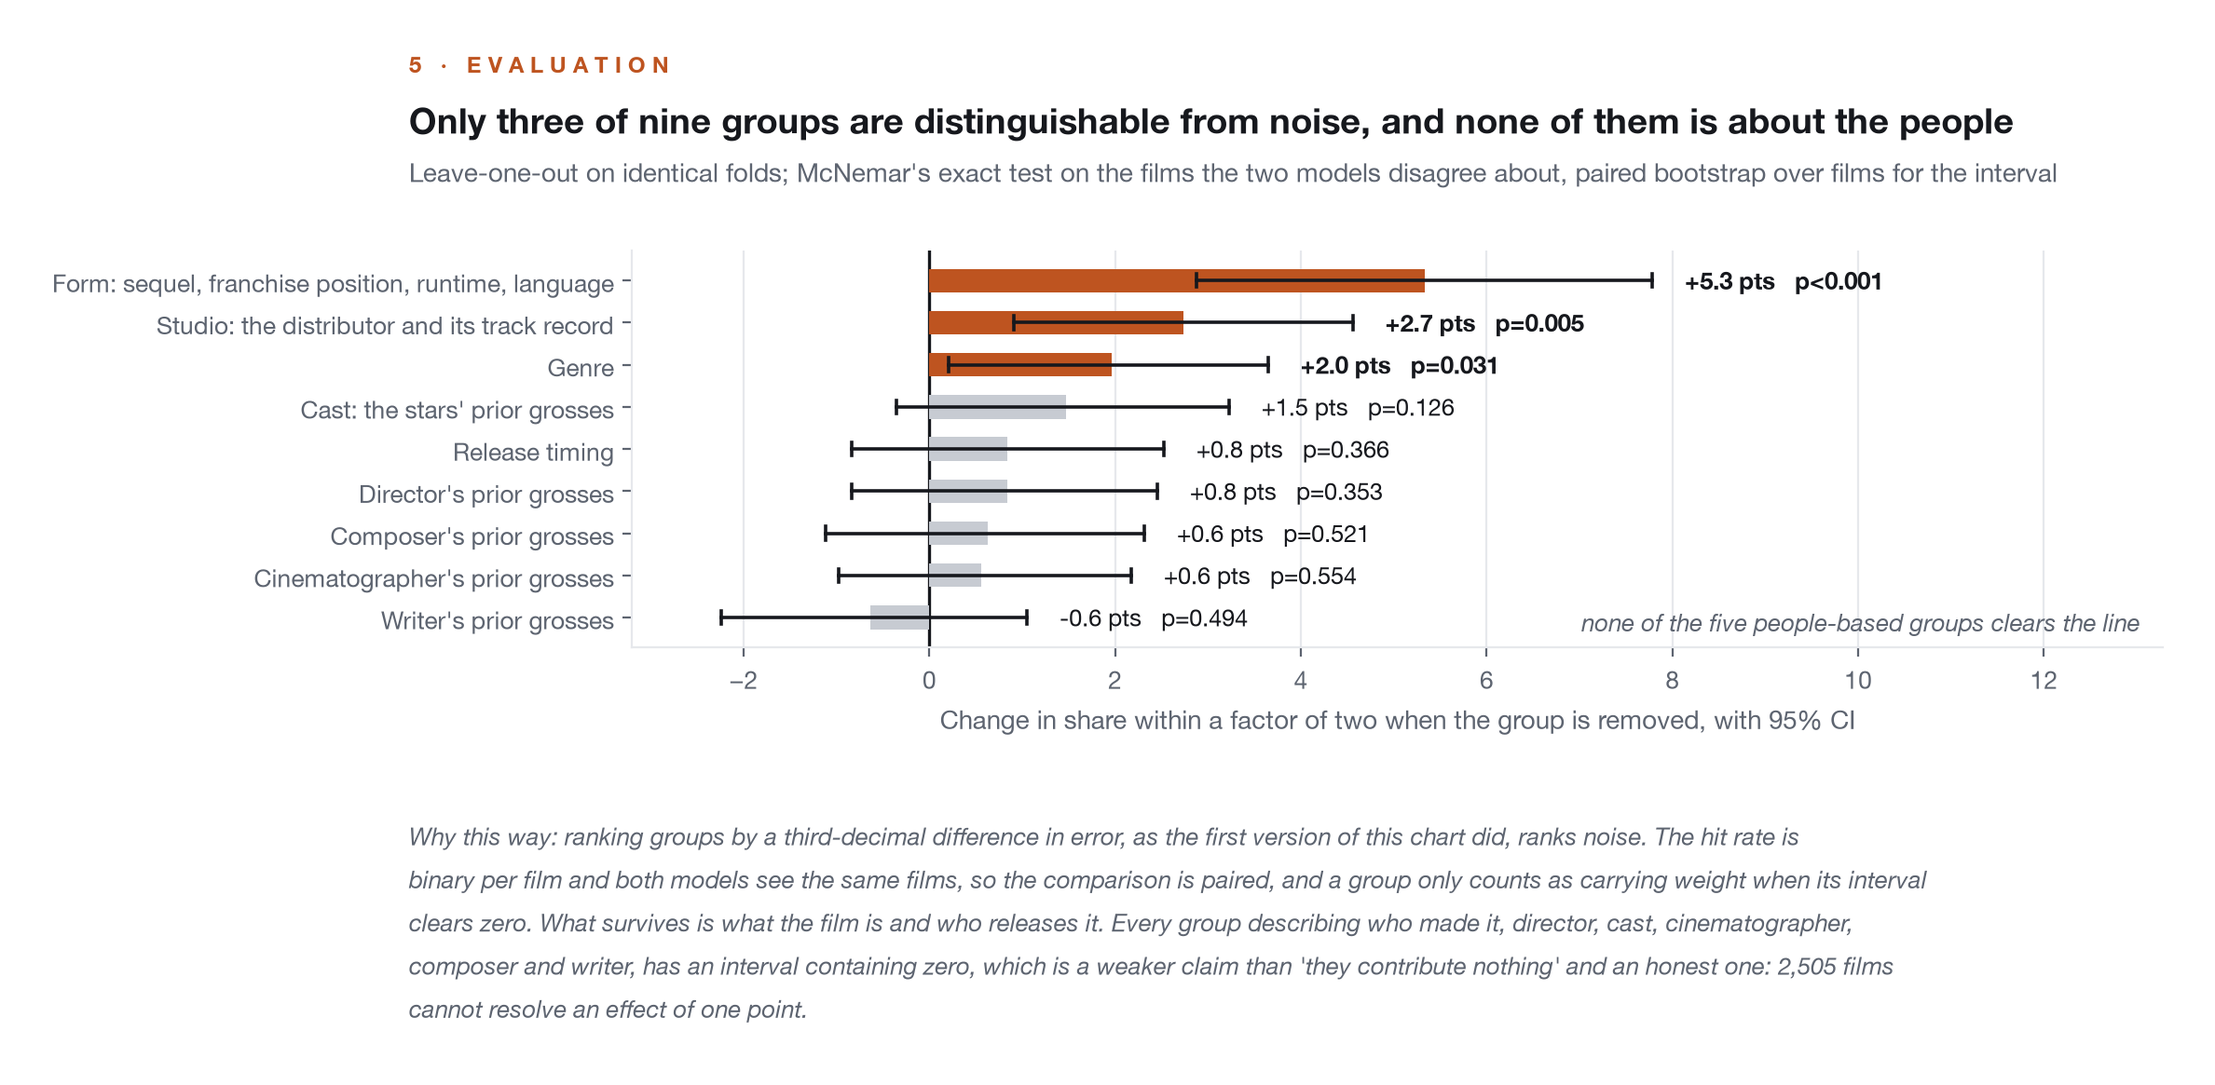
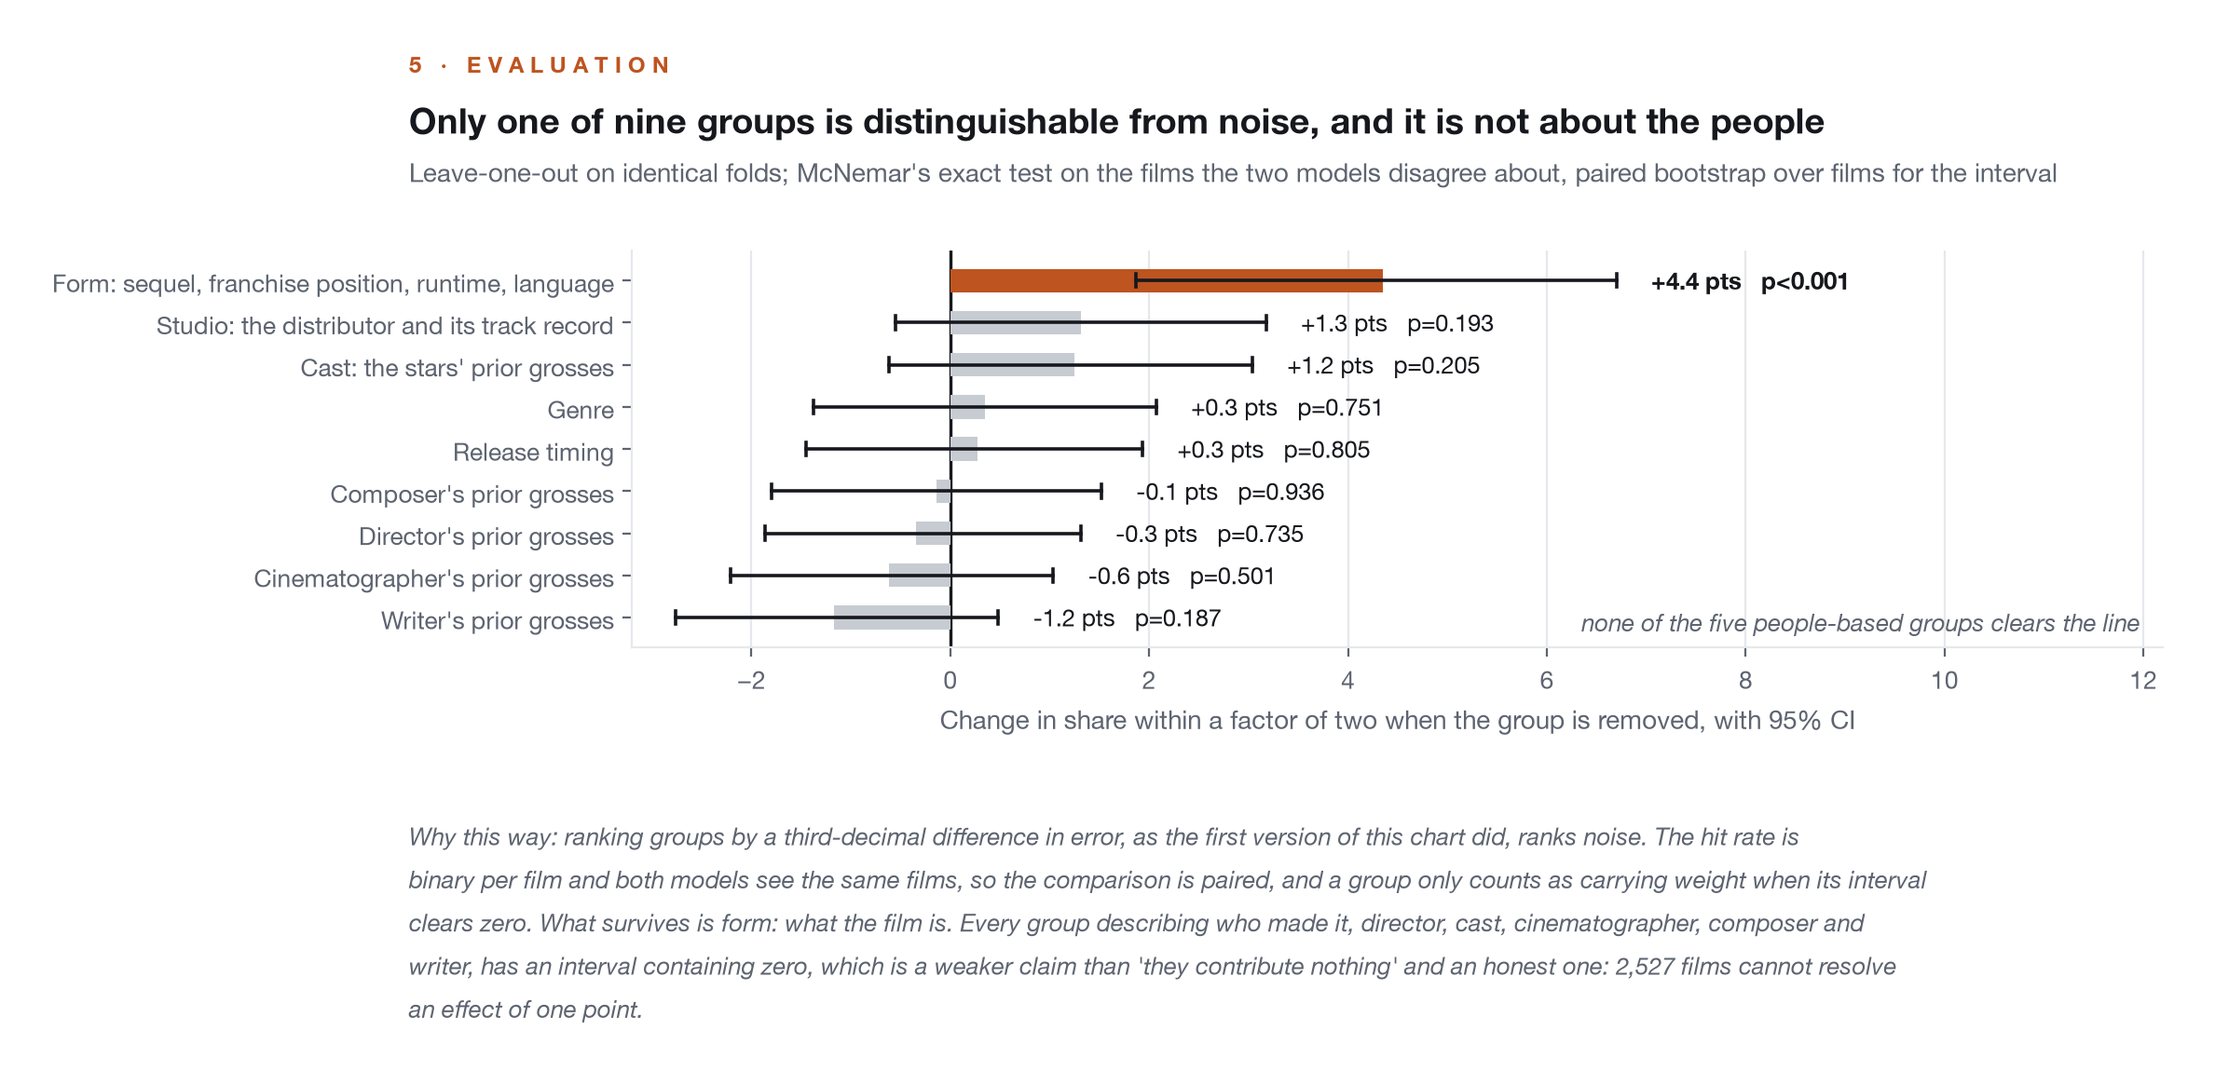
Box Office Before Release follows the sample to 2,527 films
Closing a gap in the sampling frame added 22 films and moved a finding. The
page stops claiming that the distributor predicts revenue, says in its own
words that the claim was significant on 2,505 films and not on 2,527, and
adds the decision that records why. Every figure and every number on the
page is regenerated from the new artifacts, including the signals chart
whose headline now says one group survives rather than three.

diff --git a/project-box-office.html b/project-box-office.html
@@ -56,9 +56,9 @@
 
       <h1 class="reveal">Box Office Before Release</h1>
 
-      <p class="dek reveal">Can you tell which films will not pay before they open, from nothing that is not public on the day the trailer drops? <strong>Yes, within every budget tier, and the thing that predicts it is not who made the film.</strong> Five separate groups describing the director, cast, cinematographer, composer and writer all sit inside noise. Which company releases it does not.</p>
+      <p class="dek reveal">Can you tell which films will not pay before they open, from nothing that is not public on the day the trailer drops? <strong>Yes, within every budget tier, and the thing that predicts it is not who made the film.</strong> Five separate groups describing the director, cast, cinematographer, composer and writer all sit inside noise. So, it turned out, does the distributor: significant on 2,505 films, and not on 2,527.</p>
 
-      <div class="summary-strip reveal" aria-label="Study summary"><div><span class="k">Question</span><span class="v">Which films will fail to return their budget, and can you tell before release?</span></div><div><span class="k">Data</span><span class="v"><strong>2,505 studio releases, 2000 to 2026</strong>, from 42 distributors, with the worldwide gross corrected against an independent source</span></div><div><span class="k">Method</span><span class="v">Every feature answerable as of release day; 17 rolling-origin folds; a booster calibrated in-fold, scored against each budget tier's own base rate</span></div><div><span class="k">Result</span><span class="v"><strong>Beats the budget-tier prior in every tier</strong>, with every interval clear of zero; ranks the sub-$15m films from 67% profitable to 22%</span></div></div>
+      <div class="summary-strip reveal" aria-label="Study summary"><div><span class="k">Question</span><span class="v">Which films will fail to return their budget, and can you tell before release?</span></div><div><span class="k">Data</span><span class="v"><strong>2,527 studio releases, 2000 to 2026</strong>, from 44 distributors, with the worldwide gross corrected against an independent source</span></div><div><span class="k">Method</span><span class="v">Every feature answerable as of release day; 17 rolling-origin folds; a booster calibrated in-fold, scored against each budget tier's own base rate</span></div><div><span class="k">Result</span><span class="v"><strong>Beats the budget-tier prior in every tier</strong>, with every interval clear of zero; ranks the sub-$15m films from 67% profitable to 24%</span></div></div>
 
       <div class="case-block reveal toc-watch" id="overview">
         <span class="sublabel">Overview</span>
@@ -68,12 +68,12 @@
       <div class="qa reveal toc-watch" id="question">
         <span class="sublabel">The question</span>
         <p class="q">Does who makes a film predict what it earns?</p>
-        <p class="a"><strong>Not measurably, and that was tested seven ways rather than assumed.</strong> Director, cast, cinematographer, composer and writer were each encoded as a track record as of release day, and each was removed from the working model on identical folds with a paired test on the films the two versions disagreed about. Every interval contains zero. Then the obvious objections were built and tested too: Academy pedigree, the marketing synopsis, career length and gaps, and a version with every person's full filmography pulled in from outside the sample. All of them lost. What survives is what the film is, a sequel at this budget from this distributor, and that is enough to rank the riskiest tier of films three to one.</p>
+        <p class="a"><strong>Not measurably, and that was tested five ways and then four more rather than assumed.</strong> Director, cast, cinematographer, composer and writer were each encoded as a track record as of release day, and each was removed from the working model on identical folds with a paired test on the films the two versions disagreed about. Every interval contains zero. Then the obvious objections were built and tested too: Academy pedigree, the marketing synopsis, career length and gaps, and a version with every person's full filmography pulled in from outside the sample. All of them lost. What survives is what the film <em>is</em>: a sequel, at this length, in this position in its franchise. Form is the one group besides budget that clears the line, and it is enough to rank the riskiest tier of films nearly three to one.</p>
       </div>
 
       <div class="case-block reveal toc-watch" id="why">
         <span class="sublabel">Why it matters</span>
-        <p>A regression on box office rediscovers budget. This one did: budget alone lands 47% of forecasts within a factor of two, and thirty-seven more features add ten points. The lift is real, but the model was weakest exactly where a studio needs a warning, projecting nine times actual in the bottom decile. So the target changed. The outcome space was clustered without any pre-release variable in it, three stable kinds fell out, and the classifier predicts which kind a film becomes, scored against the base rate inside its own budget tier. Predicting that a $200m tentpole turns a profit is worth nothing when 81% of them do. Predicting which of the sub-$15m films is the 37% that works is the whole job.</p>
+        <p>A regression on box office rediscovers budget. This one did: budget alone lands 47% of forecasts within a factor of two, and thirty-seven more features add nine points. The lift is real, but the model was weakest exactly where a studio needs a warning, projecting ten times actual in the bottom decile. So the target changed. The outcome space was clustered without any pre-release variable in it, three stable kinds fell out, and the classifier predicts which kind a film becomes, scored against the base rate inside its own budget tier. Predicting that a $200m tentpole turns a profit is worth nothing when 81% of them do. Predicting which of the sub-$15m films is the 37% that works is the whole job.</p>
       </div>
 
       <div class="case-block reveal toc-watch" id="crisp">
@@ -87,16 +87,16 @@
           <figcaption>TMDB calls 37,486 films theatrical in 2019 alone. Sorting by revenue, votes or popularity all select on the outcome; a distributor is attached months before opening, so it defines the frame.</figcaption>
         </figure>
         <figure>
-          <div class="fig-panel"><img src="assets/boxoffice-2-baselines.png" alt="Three bars: predicting the median film lands 31.6% within a factor of two, budget alone 46.9%, all 38 pre-release features 57.0%." width="1816" height="1008" loading="lazy"></div>
-          <figcaption>Budget alone lands 46.9% of forecasts within a factor of two. All 38 pre-release features reach 57.0% and clear budget in every one of the 17 folds.</figcaption>
+          <div class="fig-panel"><img src="assets/boxoffice-2-baselines.png" alt="Three bars: predicting the median film lands 32.1% within a factor of two, budget alone 47.1%, all 38 pre-release features 56.0%." width="1816" height="1008" loading="lazy"></div>
+          <figcaption>Budget alone lands 47.1% of forecasts within a factor of two. All 38 pre-release features reach 56.0% and clear budget in every one of the 17 folds.</figcaption>
         </figure>
         <figure>
           <div class="fig-panel"><img src="assets/boxoffice-3-ablation-design.png" alt="Two panels of horizontal bars for nine feature groups: added to a budget-only model almost all raise error; removed from the full model, form and studio cost the most." width="2207" height="1048" loading="lazy"></div>
           <figcaption>Added to budget one at a time, almost every group hurts; removed from the full model, form and studio carry the weight. The disagreement is the finding: these features only mean anything in combination.</figcaption>
         </figure>
         <figure>
-          <div class="fig-panel"><img src="assets/boxoffice-4-what-signals-buy.png" alt="Nine feature groups as horizontal bars with 95% confidence whiskers; form, studio and genre are highlighted as clearing zero, the five people-based groups are grey with intervals crossing zero." width="2377" height="1165" loading="lazy"></div>
-          <figcaption>Three of nine groups clear the line: form, studio and genre. All five describing who made the film, director, cast, cinematographer, composer and writer, have intervals containing zero.</figcaption>
+          <div class="fig-panel"><img src="assets/boxoffice-4-what-signals-buy.png" alt="Nine feature groups as horizontal bars with 95% confidence whiskers; only form is highlighted as clearing zero, the other eight including the distributor and all five people-based groups are grey with intervals crossing zero." width="2377" height="1165" loading="lazy"></div>
+          <figcaption>One of nine groups clears the line: form. The other eight, the distributor and all five describing who made the film among them, have intervals containing zero.</figcaption>
         </figure>
         <figure>
           <div class="fig-panel"><img src="assets/boxoffice-5-reliability.png" alt="Reliability diagram: the calibrated model's predicted probability of profit against the share that were profitable tracks the diagonal, the budget-tier prior sits below it." width="1267" height="1165" loading="lazy"></div>
@@ -104,7 +104,7 @@
         </figure>
         <figure>
           <div class="fig-panel"><img src="assets/boxoffice-6-decision-curve.png" alt="Decision curve: share of unprofitable films caught against the precision of the flag, with the model's curve above the budget-tier prior's at every catch rate." width="1541" height="1126" loading="lazy"></div>
-          <figcaption>Flag a film as not profitable below a threshold: at every catch rate the model's flags are about twelve points more precise than budget tier alone.</figcaption>
+          <figcaption>Flag a film as not profitable below a threshold: at every catch rate the model's flags are eleven points or more precise than budget tier alone.</figcaption>
         </figure>
       </div>
 
@@ -115,28 +115,30 @@
           <dt>Why an as-of encoding instead of a career average?</dt>
           <dd>A plain <code>groupby</code> gives a director's average over every film, including the ones after this one. <code>AsOf</code> sorts by release date and lets each row see only strictly earlier rows, and the case that makes it hard, two films opening the same morning, is tested directly: both see the history as of that day and neither sees the other. Fourteen post-release columns are banned by name and a test proves each one trips the guard.</dd>
           <dt>Why does the sampling frame matter more than the model?</dt>
-          <dd>Every convenient way to cut TMDB's catalogue down selects on the outcome. Revenue is the target; vote count and popularity measure who eventually saw the film. The distributor is known months out, so 42 of them define the sample and nothing about the answer leaks into who is in it.</dd>
+          <dd>Every convenient way to cut TMDB's catalogue down selects on the outcome. Revenue is the target; vote count and popularity measure who eventually saw the film. The distributor is known months out, so 44 of them define the sample and nothing about the answer leaks into who is in it.</dd>
           <dt>Why was the target corrected, and why before the features?</dt>
           <dd>Two rounds of feature work made the model worse, which usually means the label is wrong. Against an independent file whose own arithmetic checked out, TMDB understated worldwide gross on 104 of 1,909 shared films; on thirty of them the worldwide figure was exactly the domestic one. The target is also the input to every career prior, so a corrected gross had to be applied before the priors were built, not after.</dd>
           <dt>Why calibrate, and why is the opponent the budget tier?</dt>
           <dd>The library-default booster scored 69% accuracy with a log loss worse than the prior, which is what overconfidence looks like on paper. Regularised hard and calibrated by isotonic regression on held-out slices of the training years, it emits a probability that means what it says. And the opponent is each tier's own class frequencies rather than a coin, because a model that says profit to every tentpole and loss to every small film is already right 65% of the time.</dd>
           <dt>Why ship the library defaults?</dt>
           <dd>A hand-set configuration shipped for months and lost to the defaults on folds it was never chosen against. A randomised search then picked a winner on 2010 to 2018 that was the worst of three on 2019 to 2026, which is what fitting the selection looks like from outside. The least-fitted option generalised best, and it is defined once in <code>train.py</code> so six copies cannot drift apart again.</dd>
+          <dt>Why did the distributor stop being a finding?</dt>
+          <dd>The first version of the sampling frame carried the pre-2020 Fox ids and the post-2020 Searchlight id, and not the post-2020 20th Century Studios id, so every one of that studio's releases since the rename was missing. Adding it brought in 22 films. On 2,505 films the distributor was significant at p=0.005; on 2,527 it is p=0.19. An effect that flips on one percent more data was never a finding, and the page says so instead of quoting the earlier number. The lift over budget and the form group moved by fractions of a point and stayed.</dd>
           <dt>Why keep seven negative results?</dt>
           <dd>Because they are the finding. Prestige, the synopsis, career structure, widened histories, a neural net, the writer credit and the summed breakout were each a reasonable idea, built properly, scored on the same folds, and lost. Each stays in the repository as a module anyone can re-run, so the next person to propose Oscar features can see the number that already settled it.</dd>
         </dl>
       </div>
 
       <div class="stats reveal toc-watch" id="results" role="list" aria-label="Key results">
-        <div class="stat" role="listitem"><span class="n">+9.7</span><span class="l">points over budget alone, pooled across 1,426 films, 95% CI +7.0 to +12.3</span></div>
-        <div class="stat" role="listitem"><span class="n">67% v 22%</span><span class="l">profitable share of the model's most and least confident quarter of sub-$15m films, against a 40% base rate</span></div>
+        <div class="stat" role="listitem"><span class="n">+8.6</span><span class="l">points over budget alone, pooled across 1,448 films, 95% CI +6.1 to +11.3</span></div>
+        <div class="stat" role="listitem"><span class="n">67% v 24%</span><span class="l">profitable share of the model's most and least confident quarter of sub-$15m films, against a 40% base rate</span></div>
         <div class="stat" role="listitem"><span class="n">3 of 3</span><span class="l">budget tiers where the calibrated classifier beats the tier's own prior, every interval clear of zero</span></div>
         <div class="stat" role="listitem"><span class="n">0 of 5</span><span class="l">people-based feature groups distinguishable from noise, after seven attempts to make them so</span></div>
       </div>
 
       <div class="case-block reveal toc-watch" id="limits">
         <span class="sublabel">Limitations and scope</span>
-        <p>It never calls a write-off. Fifty-nine of the 1,426 scored films are in that class and neither model nor prior ever predicts it as the most likely outcome; the model separates them three to one on probability and never past the point of a call. A class that rare on a sample this size is detectable and not predictable. Two thousand films is small, and the significance tests say so directly: a one-point effect is unresolvable at this size, which is why the people results are stated as "inside noise" rather than "zero". "Profitable" means the worldwide gross returned the production budget at a multiple the clustering found; prints and advertising, exhibitor splits and ancillary revenue are in no public dataset. And the sample is studio films, so it will not price a microbudget breakout.</p>
+        <p>It never calls a write-off. Fifty-nine of the 1,448 scored films are in that class and neither model nor prior ever predicts it as the most likely outcome; the model separates them three to one on probability and never past the point of a call. A class that rare on a sample this size is detectable and not predictable. Two thousand films is small, and the significance tests say so directly: a one-point effect is unresolvable at this size, which is why the people results are stated as "inside noise" rather than "zero". "Profitable" means the worldwide gross returned the production budget at a multiple the clustering found; prints and advertising, exhibitor splits and ancillary revenue are in no public dataset. And the sample is studio films, so it will not price a microbudget breakout.</p>
       </div>
 
     <p class="fineprint">Data: TMDB for the catalogue and credits, OMDb for the domestic gross, IMDb's public datasets for crew and Academy records, and an independent box office file for correcting the target. Built for portfolio demonstration; the decision log is an executed notebook in the repository, and every published number is pinned by a test against the artifact that produced it.</p>

diff --git a/case-studies.html b/case-studies.html
@@ -77,8 +77,8 @@
           <span class="tag tag-domain">Calibrated classification</span>
           <h2>Box Office Before Release</h2>
           <p class="q">Which films will not pay, and can you tell before they open?</p>
-          <p>2,505 studio releases with every feature answerable as of release day. A calibrated classifier beats each budget tier's own base rate, and seven separate attempts to make the people matter all landed inside noise.</p>
-          <span class="stat-line">17 rolling-origin folds · 67% v 22% in the riskiest tier · 0 of 5 people groups significant</span>
+          <p>2,527 studio releases with every feature answerable as of release day. A calibrated classifier beats each budget tier's own base rate, and seven separate attempts to make the people matter all landed inside noise.</p>
+          <span class="stat-line">17 rolling-origin folds · 67% v 24% in the riskiest tier · 0 of 5 people groups significant</span>
           <span class="go">Read the case study</span>
         </a>
         <a class="work-card reveal" id="prospectiq" href="project-prospectiq.html">

diff --git a/index.html b/index.html
@@ -84,7 +84,7 @@
           <span class="tag tag-domain">Calibrated classification</span>
           <h3>Box Office Before Release</h3>
           <p>Which films will not pay, and can you tell before they open? Every feature as of release day, scored against each budget tier's own base rate.</p>
-          <span class="stat-line">Beats the prior in 3 of 3 tiers · 67% v 22% in the riskiest · people inside noise</span>
+          <span class="stat-line">Beats the prior in 3 of 3 tiers · 67% v 24% in the riskiest · people inside noise</span>
           <span class="go">Read the case study</span>
         </a>
         <a class="work-card flagship reveal" href="project-parkwild.html">
